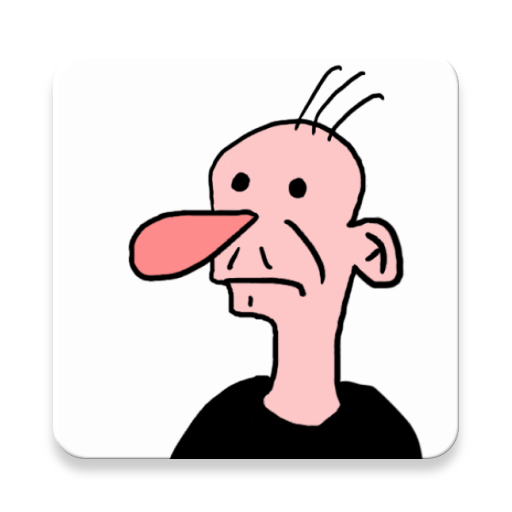
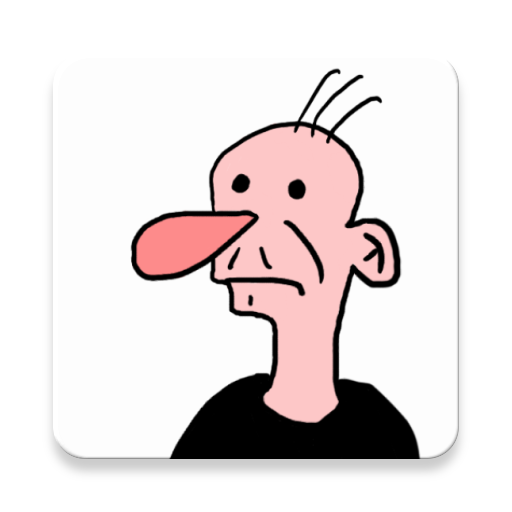
Bacheca sistemata e aggiunta emptyimg

diff --git a/app/src/main/java/com/example/giaco/gerproject/PersonalPageFragment.java b/app/src/main/java/com/example/giaco/gerproject/PersonalPageFragment.java
@@ -58,7 +58,7 @@ public class PersonalPageFragment extends Fragment implements View.OnClickListen
         userName.setText("" + loggedUser.getName() + " " + loggedUser.getSurname() + "");
         hours.setText("" + loggedUser.getHours() + "");
         if(TextUtils.isEmpty(loggedUser.getImgSrc())){
-            userImg.setBackgroundResource(R.drawable.emptyimg);
+            userImg.setBackgroundResource(R.mipmap.emptyimg1_round);
             userImg.setMaxWidth(100);
             userImg.setMaxHeight(100); //forse dobbiamo usare i bitmap perchè dalla galleria si prendono quelli
         }/*else{
